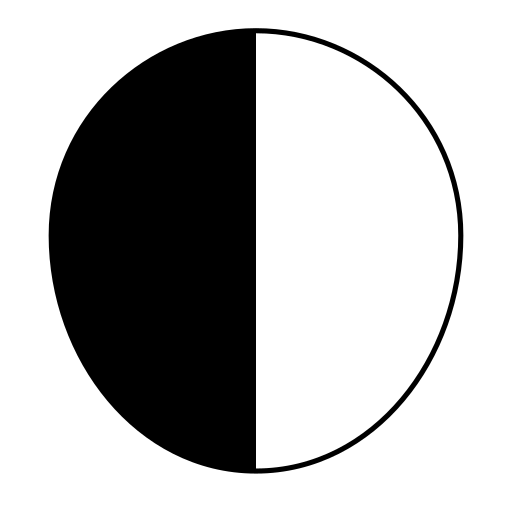
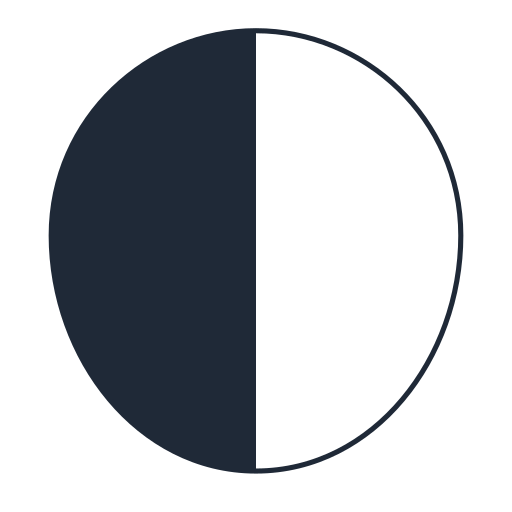
✨ feat: loader initial animé + harmonisation couleurs #1F2937

diff --git a/src/app/components/InitialLoader.tsx b/src/app/components/InitialLoader.tsx
@@ -7,7 +7,7 @@ export default function InitialLoader() {
         {/* Logo animé */}
         <div className="relative w-24 h-24">
           {/* Cercle de fond avec effet de glow */}
-          <div className="absolute inset-0 rounded-full bg-gradient-to-br from-teal-100 to-white opacity-60 animate-[breathe_3s_ease-in-out_infinite]" />
+          <div className="absolute inset-0 rounded-full bg-gradient-to-br from-indigo-100 to-white opacity-60 animate-[breathe_3s_ease-in-out_infinite]" />
           
           {/* SVG du cerveau */}
           <svg 
@@ -27,14 +27,7 @@ export default function InitialLoader() {
                 <stop offset="100%" stopColor="#374151" />
               </linearGradient>
               
-              {/* Gradient pour l'effet de "scan" */}
-              <linearGradient id="scanGradient" x1="0%" y1="0%" x2="0%" y2="100%">
-                <stop offset="0%" stopColor="rgba(20, 184, 166, 0)" />
-                <stop offset="45%" stopColor="rgba(20, 184, 166, 0.15)" />
-                <stop offset="50%" stopColor="rgba(20, 184, 166, 0.4)" />
-                <stop offset="55%" stopColor="rgba(20, 184, 166, 0.15)" />
-                <stop offset="100%" stopColor="rgba(20, 184, 166, 0)" />
-              </linearGradient>
+     
             </defs>
 
             {/* Moitié gauche */}
@@ -44,15 +37,7 @@ export default function InitialLoader() {
               {/* Moitié droite avec effet subtil */}
               <rect x="50" y="0" width="50" height="100" fill="#F3F4F6" />
               
-              {/* Effet de scan qui traverse */}
-              <rect 
-                x="0" 
-                y="0" 
-                width="100" 
-                height="100" 
-                fill="url(#scanGradient)"
-                className="animate-[scan_2.5s_ease-in-out_infinite]"
-              />
+         
             </g>
 
             {/* Contour avec effet de dessin progressif */}
@@ -80,9 +65,9 @@ export default function InitialLoader() {
           
           {/* Indicateur de chargement subtil */}
           <div className="flex gap-1.5">
-            <span className="w-1.5 h-1.5 rounded-full bg-teal-400 animate-[bounce_1.4s_ease-in-out_infinite]" />
-            <span className="w-1.5 h-1.5 rounded-full bg-teal-400 animate-[bounce_1.4s_ease-in-out_infinite_0.2s]" style={{ animationDelay: '0.2s' }} />
-            <span className="w-1.5 h-1.5 rounded-full bg-teal-400 animate-[bounce_1.4s_ease-in-out_infinite_0.4s]" style={{ animationDelay: '0.4s' }} />
+            <span className="w-1.5 h-1.5 rounded-full bg-indigo-400 animate-[bounce_1.4s_ease-in-out_infinite]" />
+            <span className="w-1.5 h-1.5 rounded-full bg-indigo-400 animate-[bounce_1.4s_ease-in-out_infinite_0.2s]" style={{ animationDelay: '0.2s' }} />
+            <span className="w-1.5 h-1.5 rounded-full bg-indigo-400 animate-[bounce_1.4s_ease-in-out_infinite_0.4s]" style={{ animationDelay: '0.4s' }} />
           </div>
         </div>
       </div>

diff --git a/src/app/components/ExerciceForm.tsx b/src/app/components/ExerciceForm.tsx
@@ -211,7 +211,7 @@ export default function ExerciceForm({ exerciceId, onSuccess, onCancel, initialC
 
       {/* Sélection de catégorie */}
       <div>
-        <label className="block text-base font-semibold text-gray-900 mb-3">
+        <label className="block text-base font-semibold text-gray-800 mb-3">
           Catégorie *
         </label>
         <div className="grid grid-cols-1 sm:grid-cols-4 gap-3">
@@ -249,7 +249,7 @@ export default function ExerciceForm({ exerciceId, onSuccess, onCancel, initialC
 
       {/* Sélection des parties du corps */}
       <div className="bg-gray-50 rounded-lg p-4">
-        <label className="block text-base font-semibold text-gray-900 mb-2">
+        <label className="block text-base font-semibold text-gray-800 mb-2">
           Parties du corps ciblées
         </label>
         <p className="text-sm text-gray-500 mb-4">Sélectionnez une ou plusieurs parties du corps (optionnel)</p>
@@ -308,7 +308,7 @@ export default function ExerciceForm({ exerciceId, onSuccess, onCancel, initialC
       />
 
       <div className="bg-gray-50 rounded-lg p-4">
-        <label className="block text-base font-semibold text-gray-900 mb-4">
+        <label className="block text-base font-semibold text-gray-800 mb-4">
           Paramètres de l&apos;exercice (optionnel)
         </label>
         <div className="grid grid-cols-1 md:grid-cols-3 gap-4">
@@ -339,7 +339,7 @@ export default function ExerciceForm({ exerciceId, onSuccess, onCancel, initialC
       </div>
 
       <div className="bg-gray-50 rounded-lg p-4">
-        <label className="block text-base font-semibold text-gray-900 mb-4">
+        <label className="block text-base font-semibold text-gray-800 mb-4">
           Équipements (optionnel)
         </label>
         <div className="flex flex-wrap gap-2 mb-4">

diff --git a/src/app/components/historique/DonutChart.tsx b/src/app/components/historique/DonutChart.tsx
@@ -21,7 +21,7 @@ export function DonutChart({ title, data, emptyIcon, emptyMessage }: DonutChartP
   if (data.length === 0) {
     return (
       <div className="bg-white rounded-2xl border border-gray-100 shadow-sm p-4 sm:p-6">
-        <h2 className="text-lg sm:text-xl font-bold text-gray-900 mb-4 flex items-center gap-2">
+        <h2 className="text-lg sm:text-xl font-bold text-gray-800 mb-4 flex items-center gap-2">
           {title}
         </h2>
         <div className="text-center py-8">
@@ -34,7 +34,7 @@ export function DonutChart({ title, data, emptyIcon, emptyMessage }: DonutChartP
 
   return (
     <div className="bg-white rounded-2xl border border-gray-100 shadow-sm p-4 sm:p-6">
-      <h2 className="text-lg sm:text-xl font-bold text-gray-900 mb-4 flex items-center gap-2">
+      <h2 className="text-lg sm:text-xl font-bold text-gray-800 mb-4 flex items-center gap-2">
         {title}
       </h2>
       
@@ -83,7 +83,7 @@ export function DonutChart({ title, data, emptyIcon, emptyMessage }: DonutChartP
               <span className="text-lg">{item.icon}</span>
               <div className="flex-1 min-w-0 flex items-center justify-between">
                 <p className="font-medium text-gray-700 truncate text-xs">{item.name}</p>
-                <span className="text-sm font-bold text-gray-900 ml-1">{item.value}</span>
+                <span className="text-sm font-bold text-gray-800 ml-1">{item.value}</span>
               </div>
             </div>
           ))}

diff --git a/src/app/(pages)/settings/page.tsx b/src/app/(pages)/settings/page.tsx
@@ -135,7 +135,7 @@ export default function SettingsPage() {
 
         {/* Section Réinitialisation */}
         <div className="bg-gray-50 rounded-lg p-4">
-          <label className="block text-base font-semibold text-gray-900 mb-4">
+          <label className="block text-base font-semibold text-gray-800 mb-4">
             Réinitialisation des exercices
           </label>
           <p className="text-sm text-gray-500 mb-4">
@@ -153,7 +153,7 @@ export default function SettingsPage() {
                 className="mt-1"
               />
               <div className="flex-1">
-                <div className="font-medium text-gray-900">Tous les jours</div>
+                <div className="font-medium text-gray-800">Tous les jours</div>
                 <div className="text-sm text-gray-500 mt-1">
                   Les exercices complétés sont réinitialisés chaque jour à minuit
                 </div>
@@ -170,7 +170,7 @@ export default function SettingsPage() {
                 className="mt-1"
               />
               <div className="flex-1">
-                <div className="font-medium text-gray-900">Une fois par semaine</div>
+                <div className="font-medium text-gray-800">Une fois par semaine</div>
                 <div className="text-sm text-gray-500 mt-1">
                   Les exercices complétés sont réinitialisés chaque dimanche à minuit
                 </div>

diff --git a/src/app/components/NavBar.tsx b/src/app/components/NavBar.tsx
@@ -93,7 +93,7 @@ export default function NavBar() {
             aria-label="Retour à l'accueil Synapso"
           >
             <Logo size={36} className="md:scale-110 " />
-            <span className="text-lg font-semibold text-gray-900">Synapso</span>
+            <span className="text-lg font-semibold text-gray-800">Synapso</span>
           </Link>
 
           {/* Bouton menu à droite */}
@@ -130,7 +130,7 @@ export default function NavBar() {
       >
         {/* En-tête du drawer */}
         <div className="flex items-center justify-between p-4 border-b border-gray-100">
-          <h2 className="text-lg font-semibold text-gray-900">Menu</h2>
+          <h2 className="text-lg font-semibold text-gray-800">Menu</h2>
           <button
             onClick={() => setIsMenuOpen(false)}
             className="p-2 text-gray-400 hover:text-gray-600 hover:bg-gray-100 rounded-lg transition-colors"
@@ -154,7 +154,7 @@ export default function NavBar() {
                   className={`
                     w-full flex items-center gap-3 px-3 py-2.5 rounded-lg transition-colors
                     ${currentUser?.id === user.id
-                      ? 'bg-white shadow-sm text-gray-900 font-medium'
+                      ? 'bg-white shadow-sm text-gray-800 font-medium'
                       : 'text-gray-600 hover:bg-white/50'
                     }
                   `}

diff --git a/src/app/(pages)/exercices/[category]/page.tsx b/src/app/(pages)/exercices/[category]/page.tsx
@@ -74,7 +74,7 @@ export default function CategoryPage() {
         {!loading && (
           <div className="px-4 mb-6">
             <div className="flex items-center justify-between gap-4">
-              <h1 className="text-2xl font-bold text-gray-900">
+              <h1 className="text-2xl font-bold text-gray-800">
                 {CATEGORY_LABELS[categoryParam]}
               </h1>
               <AddExerciceButton category={categoryParam} />
@@ -126,7 +126,7 @@ export default function CategoryPage() {
               {/* Section des exercices épinglés */}
               {pinned.length > 0 && (
                 <div>
-                  <h2 className="text-base font-semibold text-gray-900 mb-3 flex items-center gap-2">
+                  <h2 className="text-base font-semibold text-gray-800 mb-3 flex items-center gap-2">
                     <BookmarkIcon className="w-4 h-4 text-red-500" />
                     Priorités
                   </h2>
@@ -147,7 +147,7 @@ export default function CategoryPage() {
               {regular.length > 0 && (
                 <div>
                   {pinned.length > 0 && (
-                    <h2 className="text-base font-semibold text-gray-900 mb-3">
+                    <h2 className="text-base font-semibold text-gray-800 mb-3">
                       Autres exercices
                     </h2>
                   )}

diff --git a/src/app/(pages)/historique/page.tsx b/src/app/(pages)/historique/page.tsx
@@ -302,7 +302,7 @@ export default function HistoriquePage() {
       {/* En-tête */}
       <div className="bg-white rounded-2xl shadow-sm border border-gray-200 p-5 mx-4 md:mx-6 mb-6">
         <div className="flex flex-col sm:flex-row sm:items-center sm:justify-between gap-4 mb-5">
-          <h1 className="text-xl md:text-2xl font-semibold text-gray-900 flex items-center gap-2">
+          <h1 className="text-xl md:text-2xl font-semibold text-gray-800 flex items-center gap-2">
             <span>🏅</span> Tes progrès, {displayName}
           </h1>
           <SegmentedControl
@@ -410,7 +410,7 @@ export default function HistoriquePage() {
 
         {/* Historique détaillé */}
         <div className="space-y-3">
-          <h2 className="text-xl sm:text-2xl font-bold text-gray-900 flex items-center gap-2">
+          <h2 className="text-xl sm:text-2xl font-bold text-gray-800 flex items-center gap-2">
             📋 Ton parcours de champion
           </h2>
 

diff --git a/src/app/components/historique/WeekAccordion.tsx b/src/app/components/historique/WeekAccordion.tsx
@@ -27,7 +27,7 @@ export function WeekAccordion({ label, entries, isExpanded, onToggle }: WeekAcco
             {isExpanded ? '📂' : '📁'}
           </span>
           <div className="text-left">
-            <h3 className="text-base sm:text-lg font-semibold text-gray-900">
+            <h3 className="text-base sm:text-lg font-semibold text-gray-800">
               {label}
             </h3>
             <p className="text-sm text-gray-500">
@@ -77,7 +77,7 @@ function HistoryEntryCard({ entry }: { entry: HistoryEntry }) {
         </span>
         
         <div className="flex-1 min-w-0">
-          <h4 className="font-medium text-gray-900 text-sm truncate">
+          <h4 className="font-medium text-gray-800 text-sm truncate">
             {entry.exercice.name}
           </h4>
           <div className="flex flex-wrap gap-1 mt-1">

diff --git a/src/app/components/FormPageWrapper.tsx b/src/app/components/FormPageWrapper.tsx
@@ -21,14 +21,14 @@ export default function FormPageWrapper({ children, title }: FormPageWrapperProp
         <div className="p-4 sm:p-6">
           <button
             onClick={handleBack}
-            className="mb-4 flex items-center gap-2 text-gray-600 hover:text-gray-900 transition-colors"
+            className="mb-4 flex items-center gap-2 text-gray-600 hover:text-gray-800 transition-colors"
             aria-label="Retour"
           >
             <ChevronIcon className="w-5 h-5" direction="left" />
             <span className="text-sm font-medium">Retour</span>
           </button>
           {title && (
-            <h1 className="text-2xl font-bold text-gray-900 mb-6">{title}</h1>
+            <h1 className="text-2xl font-bold text-gray-800 mb-6">{title}</h1>
           )}
           {children}
         </div>

diff --git a/src/app/components/ui/Logo.tsx b/src/app/components/ui/Logo.tsx
@@ -22,7 +22,7 @@ export default function Logo({ size = 20, className = "" }: LogoProps) {
         </defs>
 
         <g clipPath="url(#clipBrain)">
-          <rect x="0" y="0" width="50" height="100" fill="#000"/>
+          <rect x="0" y="0" width="50" height="100" fill="#1F2937"/>
         </g>
 
         <path d="M50 6
@@ -30,7 +30,7 @@ export default function Logo({ size = 20, className = "" }: LogoProps) {
                  C90 70 73 92 50 92
                  C27 92 10 70 10 46
                  C10 23 29 6 50 6 Z"
-              fill="none" stroke="#000" strokeWidth="1.5"/>
+              fill="none" stroke="#1F2937" strokeWidth="1.5"/>
       </svg>
     </div>
   );

diff --git a/src/app/(pages)/aphasie/page.tsx b/src/app/(pages)/aphasie/page.tsx
@@ -66,7 +66,7 @@ export default function AphasiePage() {
         {items.map(item => (
           <li key={item.id} className="bg-white px-4 py-3 rounded-lg border border-gray-200">
             <div className="mb-3 flex flex-col md:flex-row md:items-center space-y-2 md:space-y-0 md:space-x-6">
-              <div className="text-lg md:text-xl font-bold text-gray-900 md:w-1/3">{item.quote}</div>
+              <div className="text-lg md:text-xl font-bold text-gray-800 md:w-1/3">{item.quote}</div>
               <div className="text-gray-700 italic text-sm md:text-base">{item.meaning}</div>
             </div>
             {item.comment && (

diff --git a/src/app/(pages)/page.tsx b/src/app/(pages)/page.tsx
@@ -69,9 +69,9 @@ export default function Home() {
               {/* Section des exercices épinglés */}
               <section>
                 <div className="flex items-center justify-between mb-3">
-                  <h2 className="text-lg font-semibold text-gray-900 flex items-center gap-2">
+                  <h2 className="text-lg font-semibold text-gray-800 flex items-center gap-2">
                     <PinIcon filled={true} className="w-4 h-4 text-red-500" />
-                    Mes priorités
+                    Mes priorités à faire
                   </h2>
                 </div>
                 {pinned.length > 0 ? (
